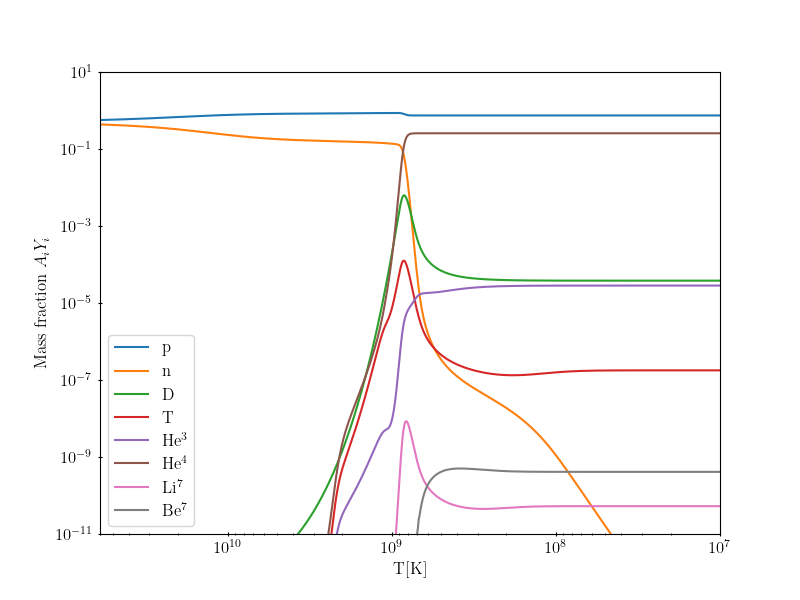
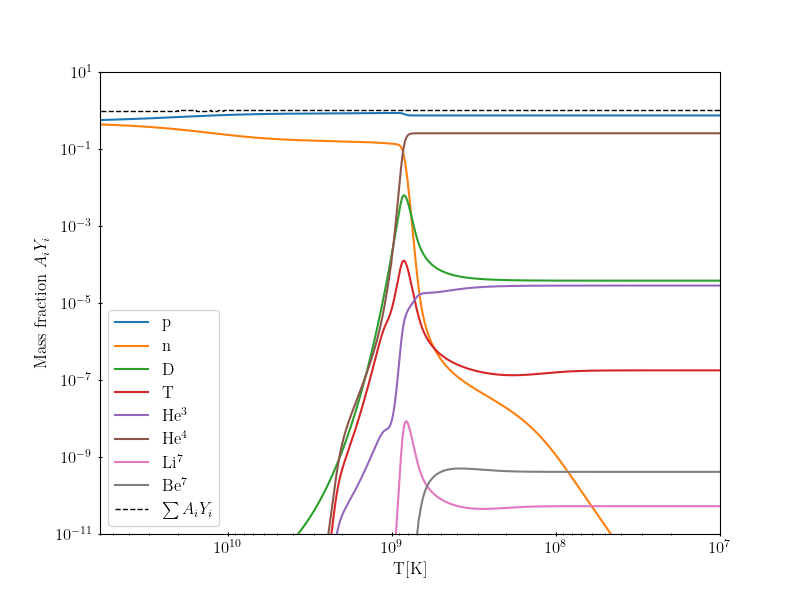
Fixed plot of sumAiYi

Changed region(s): [[0.125, 0.51, 0.2812, 0.87], [0.125, 0.18, 0.9062, 0.21]]

diff --git a/project-2/plot_abundances.py b/project-2/plot_abundances.py
@@ -132,6 +132,7 @@ YHe3 = variables[4, :]
 YHe4 = variables[5, :]
 YLi7 = variables[6, :]
 YBe7 = variables[7, :]
+sum_Yi = Yn + Yp + 2*YD + 3*YT + 3*YHe3 + 4*YHe4 + 7*YLi7 + 7*YBe7
 
 fig, ax = plt.subplots()
 
@@ -143,6 +144,7 @@ ax.plot(T_plot, 3 * YHe3, label=r'He$^3$')
 ax.plot(T_plot, 4 * YHe4, label=r'He$^4$')
 ax.plot(T_plot, 7 * YLi7, label=r'Li$^7$')
 ax.plot(T_plot, 7 * YBe7, label=r'Be$^7$')
+ax.plot(T_plot, sum_Yi, lw=1, ls='dashed', color='black', label=r'$\sum A_iY_i$')
 ax.set_xlabel('T[K]')
 ax.set_ylabel(r'Mass fraction $A_iY_i$')
 ax.set_ylim([1e-11, 10])
